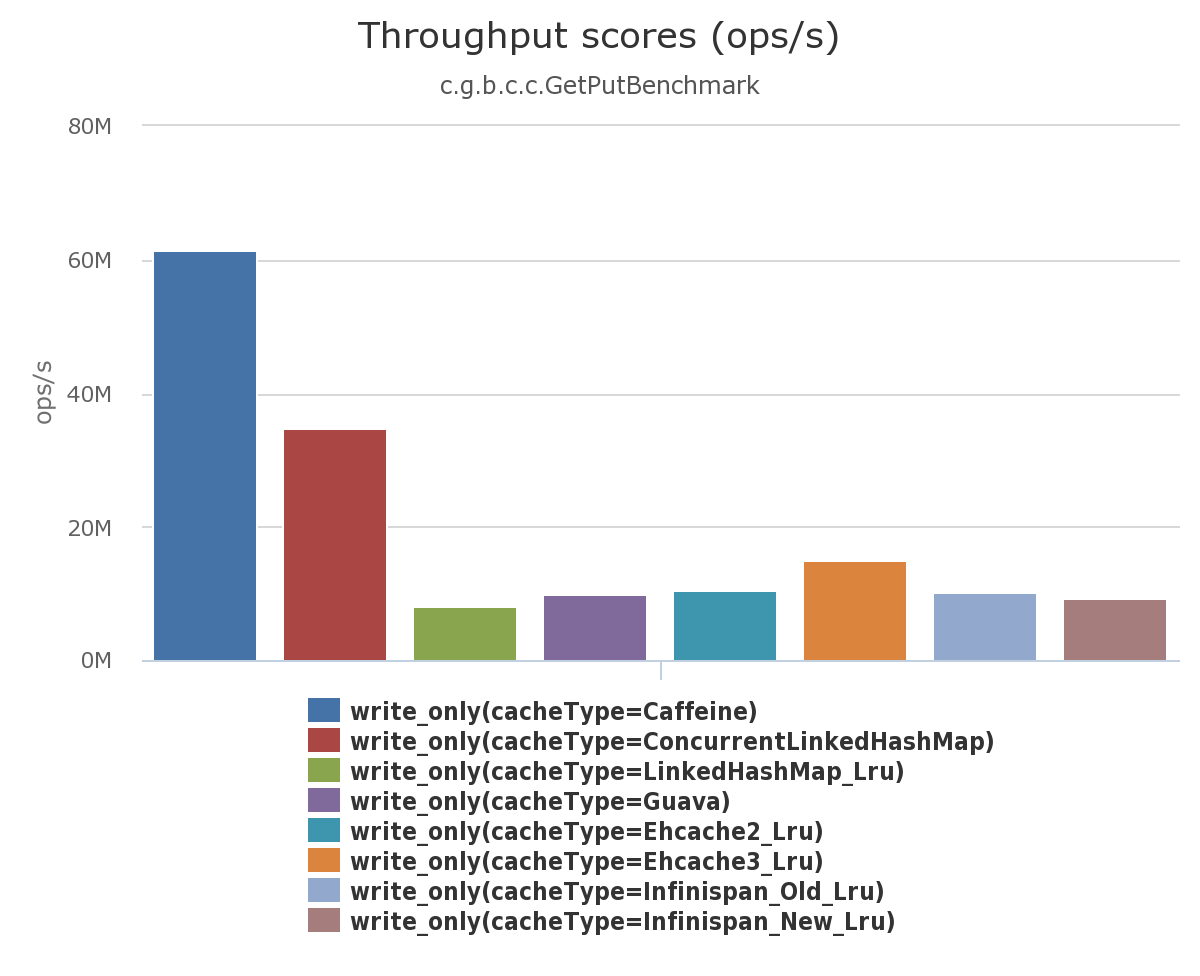
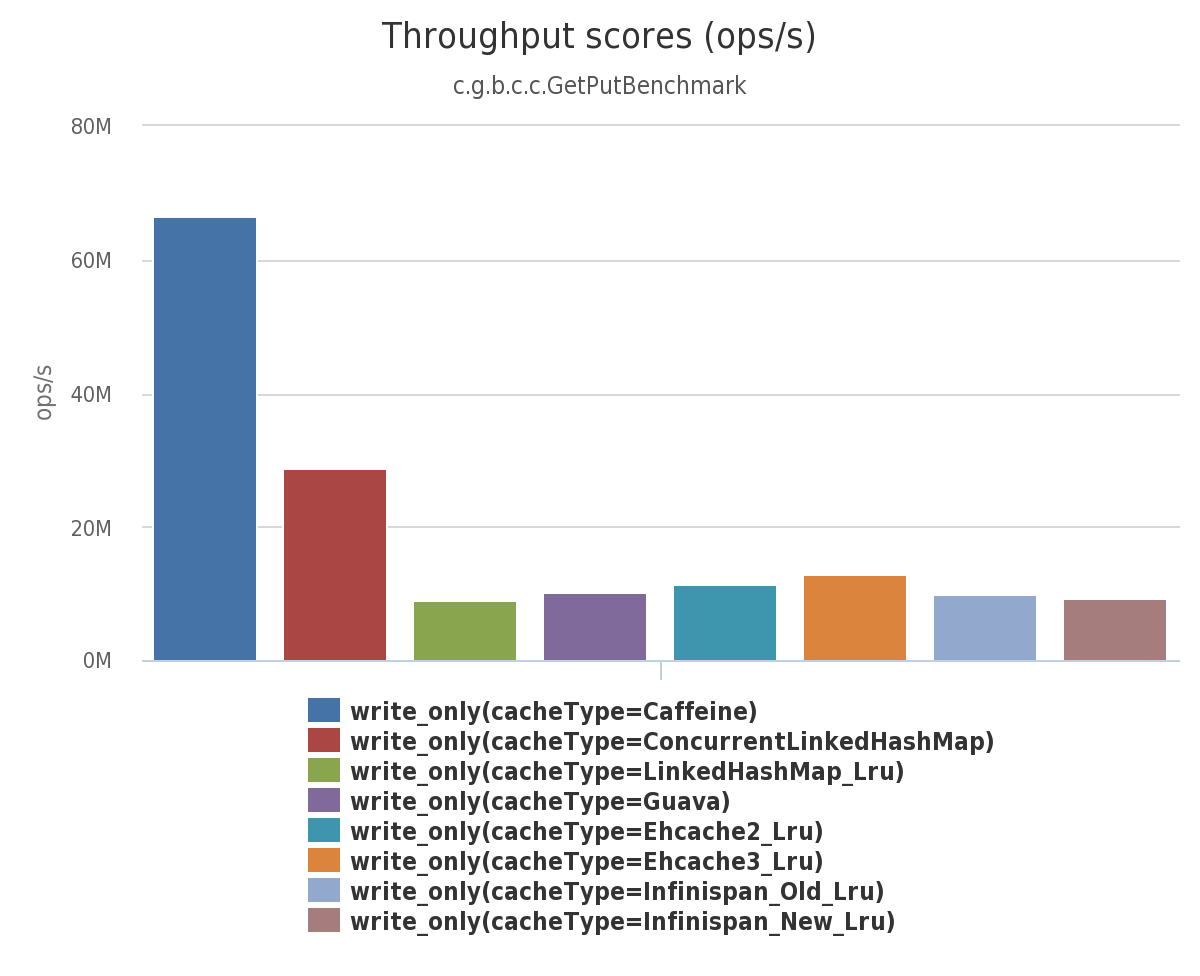
Add tear down phase to benchmark

diff --git a/caffeine/src/jmh/java/com/github/benmanes/caffeine/cache/CacheType.java b/caffeine/src/jmh/java/com/github/benmanes/caffeine/cache/CacheType.java
@@ -24,13 +24,13 @@ import org.infinispan.commons.util.concurrent.jdk8backported.BoundedEquivalentCo
 import org.infinispan.commons.util.concurrent.jdk8backported.BoundedEquivalentConcurrentHashMapV8.Eviction;
 import org.infinispan.util.concurrent.BoundedConcurrentHashMap;
 
+import com.github.benmanes.caffeine.cache.impl.CaffeineCache;
 import com.github.benmanes.caffeine.cache.impl.ConcurrentHashMapV7;
 import com.github.benmanes.caffeine.cache.impl.ConcurrentMapCache;
 import com.github.benmanes.caffeine.cache.impl.Ehcache2;
 import com.github.benmanes.caffeine.cache.impl.Ehcache3;
+import com.github.benmanes.caffeine.cache.impl.GuavaCache;
 import com.github.benmanes.caffeine.cache.impl.LinkedHashMapCache;
-import com.github.benmanes.caffeine.cache.tracing.Tracer;
-import com.google.common.cache.CacheBuilder;
 import com.googlecode.concurrentlinkedhashmap.ConcurrentLinkedHashMap;
 
 import net.sf.ehcache.store.MemoryStoreEvictionPolicy;
@@ -41,12 +41,7 @@ import net.sf.ehcache.store.MemoryStoreEvictionPolicy;
 public enum CacheType {
   Caffeine {
     @Override public <K, V> BasicCache<K, V> create(int maximumSize) {
-      System.setProperty(Tracer.TRACING_ENABLED, "false");
-      return new ConcurrentMapCache<>(
-          com.github.benmanes.caffeine.cache.Caffeine.newBuilder()
-              .maximumSize(maximumSize)
-              .<K, V>build()
-              .asMap());
+      return new CaffeineCache<>(maximumSize);
     }
   },
   ConcurrentHashMapV7 { // unbounded, see OpenJDK/7u40-b43
@@ -70,12 +65,7 @@ public enum CacheType {
   },
   Guava {
     @Override public <K, V> BasicCache<K, V> create(int maximumSize) {
-      return new ConcurrentMapCache<>(
-          CacheBuilder.newBuilder()
-              .concurrencyLevel(CONCURRENCY_LEVEL)
-              .maximumSize(maximumSize)
-              .<K, V>build()
-              .asMap());
+      return new GuavaCache<>(maximumSize);
     }
   },
   Infinispan_Old_Lru {
@@ -116,7 +106,7 @@ public enum CacheType {
   };
 
   /** The number of hash table segments. */
-  static final int CONCURRENCY_LEVEL = 64;
+  public static final int CONCURRENCY_LEVEL = 64;
 
   /**
    * Creates the cache with the maximum size. Note that some implementations may evict prior to

diff --git a/caffeine/src/jmh/java/com/github/benmanes/caffeine/cache/impl/CaffeineCache.java b/caffeine/src/jmh/java/com/github/benmanes/caffeine/cache/impl/CaffeineCache.java
@@ -1,0 +1,53 @@
+/*
+ * Copyright 2015 Ben Manes. All Rights Reserved.
+ *
+ * Licensed under the Apache License, Version 2.0 (the "License");
+ * you may not use this file except in compliance with the License.
+ * You may obtain a copy of the License at
+ *
+ *     http://www.apache.org/licenses/LICENSE-2.0
+ *
+ * Unless required by applicable law or agreed to in writing, software
+ * distributed under the License is distributed on an "AS IS" BASIS,
+ * WITHOUT WARRANTIES OR CONDITIONS OF ANY KIND, either express or implied.
+ * See the License for the specific language governing permissions and
+ * limitations under the License.
+ */
+package com.github.benmanes.caffeine.cache.impl;
+
+import java.util.concurrent.Executors;
+
+import com.github.benmanes.caffeine.cache.BasicCache;
+import com.github.benmanes.caffeine.cache.Cache;
+import com.github.benmanes.caffeine.cache.Caffeine;
+import com.github.benmanes.caffeine.cache.tracing.Tracer;
+
+/**
+ * @author ben.manes@gmail.com (Ben Manes)
+ */
+public final class CaffeineCache<K, V> implements BasicCache<K, V> {
+  private final Cache<K, V> cache;
+
+  public CaffeineCache(int maximumSize) {
+    System.setProperty(Tracer.TRACING_ENABLED, "false");
+    cache = Caffeine.newBuilder()
+        .executor(Executors.newWorkStealingPool(1))
+        .maximumSize(maximumSize)
+        .build();
+  }
+
+  @Override
+  public V get(K key) {
+    return cache.getIfPresent(key);
+  }
+
+  @Override
+  public void put(K key, V value) {
+    cache.put(key, value);
+  }
+
+  @Override
+  public void cleanUp() {
+    cache.cleanUp();
+  }
+}

diff --git a/caffeine/src/jmh/java/com/github/benmanes/caffeine/cache/impl/GuavaCache.java b/caffeine/src/jmh/java/com/github/benmanes/caffeine/cache/impl/GuavaCache.java
@@ -1,0 +1,51 @@
+/*
+ * Copyright 2015 Ben Manes. All Rights Reserved.
+ *
+ * Licensed under the Apache License, Version 2.0 (the "License");
+ * you may not use this file except in compliance with the License.
+ * You may obtain a copy of the License at
+ *
+ *     http://www.apache.org/licenses/LICENSE-2.0
+ *
+ * Unless required by applicable law or agreed to in writing, software
+ * distributed under the License is distributed on an "AS IS" BASIS,
+ * WITHOUT WARRANTIES OR CONDITIONS OF ANY KIND, either express or implied.
+ * See the License for the specific language governing permissions and
+ * limitations under the License.
+ */
+package com.github.benmanes.caffeine.cache.impl;
+
+import static com.github.benmanes.caffeine.cache.CacheType.CONCURRENCY_LEVEL;
+
+import com.github.benmanes.caffeine.cache.BasicCache;
+import com.google.common.cache.Cache;
+import com.google.common.cache.CacheBuilder;
+
+/**
+ * @author ben.manes@gmail.com (Ben Manes)
+ */
+public final class GuavaCache<K, V> implements BasicCache<K, V> {
+  private final Cache<K, V> cache;
+
+  public GuavaCache(int maximumSize) {
+    cache = CacheBuilder.newBuilder()
+        .concurrencyLevel(CONCURRENCY_LEVEL)
+        .maximumSize(maximumSize)
+        .build();
+  }
+
+  @Override
+  public V get(K key) {
+    return cache.getIfPresent(key);
+  }
+
+  @Override
+  public void put(K key, V value) {
+    cache.put(key, value);
+  }
+
+  @Override
+  public void cleanUp() {
+    cache.cleanUp();
+  }
+}

diff --git a/caffeine/src/jmh/java/com/github/benmanes/caffeine/cache/GetPutBenchmark.java b/caffeine/src/jmh/java/com/github/benmanes/caffeine/cache/GetPutBenchmark.java
@@ -20,10 +20,12 @@ import java.util.Random;
 import org.openjdk.jmh.annotations.Benchmark;
 import org.openjdk.jmh.annotations.Group;
 import org.openjdk.jmh.annotations.GroupThreads;
+import org.openjdk.jmh.annotations.Level;
 import org.openjdk.jmh.annotations.Param;
 import org.openjdk.jmh.annotations.Scope;
 import org.openjdk.jmh.annotations.Setup;
 import org.openjdk.jmh.annotations.State;
+import org.openjdk.jmh.annotations.TearDown;
 
 import com.github.benmanes.caffeine.cache.simulator.generator.IntegerGenerator;
 import com.github.benmanes.caffeine.cache.simulator.generator.ScrambledZipfianGenerator;
@@ -35,7 +37,7 @@ import com.github.benmanes.caffeine.cache.simulator.generator.ScrambledZipfianGe
 public class GetPutBenchmark {
   private static final int SIZE = (2 << 14);
   private static final int MASK = SIZE - 1;
-  private static final int ITEMS = SIZE / 4;
+  private static final int ITEMS = SIZE / 3;
 
   @Param({
     "LinkedHashMap_Lru",
@@ -67,6 +69,11 @@ public class GetPutBenchmark {
       ints[i] = generator.nextInt();
       cache.put(ints[i], Boolean.TRUE);
     }
+  }
+
+  @TearDown(Level.Iteration)
+  public void tearDown() {
+    cache.cleanUp();
   }
 
   @Benchmark @Group("read_only") @GroupThreads(8)

diff --git a/caffeine/src/main/java/com/github/benmanes/caffeine/cache/BoundedLocalCache.java b/caffeine/src/main/java/com/github/benmanes/caffeine/cache/BoundedLocalCache.java
@@ -137,7 +137,9 @@ abstract class BoundedLocalCache<K, V> extends BLCHeader.DrainStatusRef<K, V>
     weigher = builder.getWeigher(isAsync);
     id = tracer().register(builder.name());
     data = new ConcurrentHashMap<>(builder.getInitialCapacity());
-    evictionLock = builder.hasExecutor() ? new ReentrantLock() : new NonReentrantLock();
+    evictionLock = (builder.getExecutor() instanceof ForkJoinPool)
+        ? new NonReentrantLock()
+        : new ReentrantLock();
     nodeFactory = NodeFactory.getFactory(builder.isStrongKeys(), builder.isWeakKeys(),
         builder.isStrongValues(), builder.isWeakValues(), builder.isSoftValues(),
         builder.expiresAfterAccess(), builder.expiresAfterWrite(), builder.refreshes(),

diff --git a/caffeine/src/jmh/java/com/github/benmanes/caffeine/cache/BasicCache.java b/caffeine/src/jmh/java/com/github/benmanes/caffeine/cache/BasicCache.java
@@ -33,4 +33,7 @@ public interface BasicCache<K, V> {
 
   /** Stores the value into the cache, replacing an existing mapping if present. */
   void put(@Nonnull K key, @Nonnull V value);
+
+  /** Performs any pending maintenance operations needed by the cache. */
+  default void cleanUp() {}
 }

diff --git a/caffeine/src/main/java/com/github/benmanes/caffeine/cache/Caffeine.java b/caffeine/src/main/java/com/github/benmanes/caffeine/cache/Caffeine.java
@@ -236,10 +236,6 @@ public final class Caffeine<K, V> {
     return this;
   }
 
-  boolean hasExecutor() {
-    return getExecutor() != ForkJoinPool.commonPool();
-  }
-
   @Nonnull
   Executor getExecutor() {
     return (executor == null) ? ForkJoinPool.commonPool() : executor;
